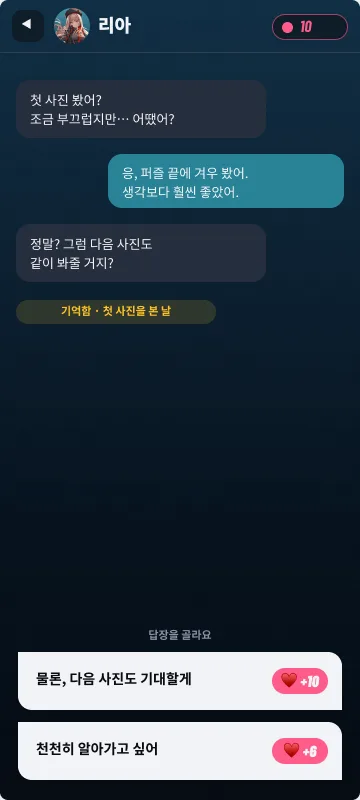
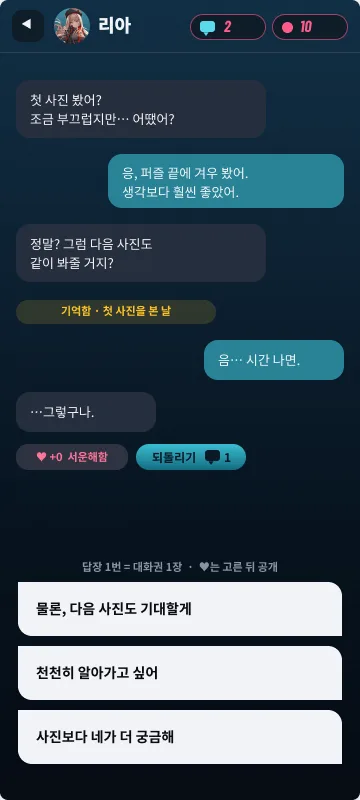
Proposal: affinity gate, answer tickets, ending tier gacha (R/SR/UR)
Claude-Session: https://claude.ai/code/session_01QC4LnGUoEV4hPAaGSGh6GF

diff --git a/territory-romance-f2p-proposal.html b/territory-romance-f2p-proposal.html
@@ -44,32 +44,92 @@ section{margin:72px 0}
 .scope div{background:var(--card);border:1px solid var(--line);border-radius:14px;padding:18px}
 .scope b{display:block;font-size:18px;margin-bottom:4px}
 .scope span{color:var(--muted);font-size:14px}
+.duo{display:grid;grid-template-columns:auto 1fr;gap:28px;align-items:center}
+.duo .pair{display:flex;gap:14px}
+.duo .pair figure{margin:0;width:200px}
+.duo .pair img{width:100%;display:block;border-radius:16px;border:3px solid #1c2e42}
+.pts{list-style:none;margin:0;padding:0;display:grid;gap:10px}
+.pts li{background:var(--card);border:1px solid var(--line);border-radius:12px;padding:12px 14px;font-size:15px}
+.pts li b{color:var(--yellow)}
+.holo{position:relative;border-radius:16px;overflow:hidden}
+.holo::after{content:"";position:absolute;inset:0;background:linear-gradient(115deg,transparent 30%,#ff5c9a55 40%,#ffe06655 47%,#5cf2c955 54%,#5cc8ff55 61%,transparent 70%);background-size:250% 250%;mix-blend-mode:color-dodge;animation:foil 3.2s ease-in-out infinite alternate;pointer-events:none}
+@keyframes foil{from{background-position:100% 100%}to{background-position:0 0}}
+@media (prefers-reduced-motion:reduce){.holo::after{animation:none}}
+.tiers{display:grid;grid-template-columns:repeat(3,1fr);gap:10px;margin-top:4px}
+.tier{border-radius:12px;padding:12px;text-align:center;background:var(--card);border:1px solid var(--line)}
+.tier b{display:block;font:italic 900 26px/1 "Barlow Condensed",ui-sans-serif,sans-serif}
+.tier span{font-size:12px;color:var(--muted)}
+.tier.ur{background:linear-gradient(115deg,#ff5c9a,#ffd84d,#5cf2c9,#5cc8ff,#b27aff);border:0;color:#1a0f2e}
+.tier.ur span{color:#1a0f2e;font-weight:700}
+.money{grid-template-columns:1fr 1fr}
 footer{border-top:1px solid var(--line);padding-top:18px;color:var(--muted);font-size:13px}
-@media(max-width:860px){.hero{grid-template-columns:1fr}.nums{grid-template-columns:repeat(2,1fr)}.money,.scope{grid-template-columns:1fr}.grid3{grid-template-columns:repeat(3,minmax(0,1fr));gap:10px}}
-@media(max-width:520px){.shot{flex-basis:160px}.grid3{grid-template-columns:1fr 1fr}.mcard img{width:90px}}
+@media(max-width:860px){.duo{grid-template-columns:1fr}.hero{grid-template-columns:1fr}.nums{grid-template-columns:repeat(2,1fr)}.money,.scope{grid-template-columns:1fr}.grid3{grid-template-columns:repeat(3,minmax(0,1fr));gap:10px}}
+@media(max-width:520px){.duo .pair figure{width:48%}.shot{flex-basis:160px}.grid3{grid-template-columns:1fr 1fr}.mcard img{width:90px}}
 </style></head><body><div class="wrap">
 
 <header class="hero">
  <div>
   <div class="kicker">DLsite にじGAME · FANZA · F2P + IAP</div>
   <h1>사진을 여는<br>땅따먹기</h1>
-  <p class="lead">땅을 먹으면 <b>사진</b>이 열리고,<br>사진이 열리면 <b>그녀와 대화</b>가 열린다.</p>
-  <div class="chips"><span>영역 점령 퍼즐</span><span>AI 대화 · 친밀도</span><span>캐릭터당 앨범 5장</span></div>
+  <p class="lead">땅을 먹으면 <b>사진</b>이 열리고,<br>마음을 얻어야 <b>다음 사진</b>이 열린다.<br>마지막은 <b>엔딩 뽑기</b>.</p>
+  <div class="chips"><span>영역 점령 퍼즐</span><span>AI 대화 · 친밀도</span><span>캐릭터당 앨범 5장</span><span>엔딩 등급 뽑기</span></div>
  </div>
  <div class="hero-shots"><img src="japan-project/proposal-screens/01-lobby.webp" alt="로비"><img src="japan-project/proposal-screens/02-puzzle.webp" alt="땅따먹기 퍼즐"><img src="japan-project/proposal-screens/04-clear.webp" alt="사진 획득"></div>
 </header>
 
 <section id="flow">
  <h2>한 판의 흐름</h2>
- <p class="sub">고르고 → 열고 → 대화하고 → 엔딩. 옆으로 넘겨 보세요.</p>
+ <p class="sub">고르고 → 열고 → 마음 얻고 → 엔딩 뽑기. 옆으로 넘겨 보세요.</p>
  <div class="rail">
   <figure class="shot"><img src="japan-project/proposal-screens/01-lobby.webp" alt="" loading="lazy"><figcaption><b><i>01</i>로비</b><span>첫 캐릭터는 무료. GO!</span></figcaption></figure>
   <figure class="shot"><img src="japan-project/proposal-screens/02-puzzle.webp" alt="" loading="lazy"><figcaption><b><i>02</i>땅따먹기</b><span>80% 열면 사진 1장</span></figcaption></figure>
   <figure class="shot"><img src="japan-project/proposal-screens/03-timeup.webp" alt="" loading="lazy"><figcaption><b><i>03</i>시간 초과</b><span>"8%만 더" — 여기서 결제</span></figcaption></figure>
   <figure class="shot"><img src="japan-project/proposal-screens/04-clear.webp" alt="" loading="lazy"><figcaption><b><i>04</i>사진 획득</b><span>앨범 1/5 · 대화 열림</span></figcaption></figure>
-  <figure class="shot"><img src="japan-project/proposal-screens/05-talk.webp" alt="" loading="lazy"><figcaption><b><i>05</i>대화</b><span>고르면 친밀도 +6~10</span></figcaption></figure>
-  <figure class="shot"><img src="japan-project/proposal-screens/06-bond.webp" alt="" loading="lazy"><figcaption><b><i>06</i>관계</b><span>사진 4장 + ♥100 = 엔딩</span></figcaption></figure>
-  <figure class="shot"><img src="japan-project/proposal-screens/07-ending.webp" alt="" loading="lazy"><figcaption><b><i>07</i>엔딩</b><span>앨범 5/5 · 다음 캐릭터</span></figcaption></figure>
+  <figure class="shot"><img src="japan-project/proposal-screens/05-talk.webp" alt="" loading="lazy"><figcaption><b><i>05</i>대화</b><span>답장마다 대화권 1장</span></figcaption></figure>
+  <figure class="shot"><img src="japan-project/proposal-screens/06-bond.webp" alt="" loading="lazy"><figcaption><b><i>06</i>관계</b><span>♥ 모자라면 다음 사진 잠김</span></figcaption></figure>
+  <figure class="shot"><img src="japan-project/proposal-screens/07-ending.webp" alt="" loading="lazy"><figcaption><b><i>07</i>엔딩 뽑기</b><span>첫 1회 무료 · 최고 UR</span></figcaption></figure>
+  <figure class="shot"><div class="holo"><img src="japan-project/proposal-screens/08-result.webp" alt="" loading="lazy" style="border-radius:16px"></div><figcaption><b><i>08</i>결과</b><span>UR = 홀로 + 움직임</span></figcaption></figure>
+ </div>
+</section>
+
+<section id="bond">
+ <h2>마음을 못 얻으면, 다음 사진도 없다</h2>
+ <p class="sub">사진 퍼즐 입장권 = 친밀도. 말실수는 대화권으로 되돌린다.</p>
+ <div class="duo">
+  <div class="pair">
+   <figure><img src="japan-project/proposal-screens/05-talk.webp" alt="대화" loading="lazy"></figure>
+   <figure><img src="japan-project/proposal-screens/06-bond.webp" alt="관계" loading="lazy"></figure>
+  </div>
+  <ul class="pts">
+   <li>답장 1번 = <b>대화권 1장</b> · 하루 무료 5장</li>
+   <li>♥는 <b>고른 뒤 공개</b> — 좋음 +4 · 보통 +2 · 나쁨 0</li>
+   <li>사진 2 <b>♥15</b> · 사진 3 <b>♥45</b> · 사진 4 <b>♥70</b> · 엔딩 <b>♥100</b></li>
+   <li>♥ 2 모자랄 때 → 자정까지 기다리거나 <b>대화권 5장 ◇100</b></li>
+  </ul>
+ </div>
+</section>
+
+<section id="ending">
+ <h2>엔딩은 뽑는다</h2>
+ <p class="sub">첫 판은 공짜. 더 높은 등급이 보이니까 한 번 더.</p>
+ <div class="duo">
+  <div class="pair">
+   <figure><img src="japan-project/proposal-screens/07-ending.webp" alt="엔딩 뽑기" loading="lazy"></figure>
+   <figure class="holo"><img src="japan-project/proposal-screens/08-result.webp" alt="UR 결과" loading="lazy" style="border-radius:16px"></figure>
+  </div>
+  <div>
+   <div class="tiers">
+    <div class="tier"><b>R</b><span>70% · 기본 일러</span></div>
+    <div class="tier" style="border-color:#5cc8ff"><b style="color:#5cc8ff">SR</b><span>25% · 수위↑ · 홀로 테두리</span></div>
+    <div class="tier ur"><b>UR</b><span>5% · 최고 수위 · 전면 홀로 · 움직임</span></div>
+   </div>
+   <ul class="pts" style="margin-top:12px">
+    <li>뽑기 화면에 <b>“최고 UR까지”</b> 뱃지 + 확률 한 줄 상시 노출</li>
+    <li>2회째부터 <b>◇300</b> · <b>20회째 UR 확정</b></li>
+    <li>어떤 등급이든 첫 1장으로 앨범 5/5 — 무과금도 엔딩 본다</li>
+    <li>중복 등급 → 대화권 3장 · 등급 모으기 보상 없음</li>
+   </ul>
+  </div>
  </div>
 </section>
 
@@ -85,35 +145,37 @@ footer{border-top:1px solid var(--line);padding-top:18px;color:var(--muted);font
 
 <section id="volume">
  <h2>숫자로 보면</h2>
- <p class="sub">출시 기준. 무과금으로도 전부 도달 가능.</p>
+ <p class="sub">출시 기준. 무과금으로도 기본 엔딩까지 도달.</p>
  <div class="nums">
   <div class="num"><b>12명</b><span>출시 캐릭터 · 월 +2</span></div>
   <div class="num"><b>5장</b><span>캐릭터당 앨범 (사진 4 + 엔딩)</span></div>
-  <div class="num"><b>10판</b><span>캐릭터당 스테이지</span></div>
-  <div class="num"><b>8회</b><span>캐릭터당 스토리 대화</span></div>
+  <div class="num"><b>3등급</b><span>엔딩 R · SR · UR</span></div>
+  <div class="num"><b>5장/일</b><span>무료 대화권</span></div>
   <div class="num"><b>~8일</b><span>무과금 1명 완결</span></div>
  </div>
 </section>
 
 <section id="money">
- <h2>돈 버는 곳은 딱 두 군데</h2>
- <p class="sub">기다리기 싫을 때, 거의 다 열었을 때.</p>
+ <h2>돈 버는 곳은 네 군데</h2>
+ <p class="sub">기다리기 싫을 때, 거의 다 열었을 때, 말실수했을 때, 더 높은 엔딩이 보일 때.</p>
  <div class="money">
   <div class="mcard"><img src="japan-project/proposal-screens/l2-locked.webp" alt="" loading="lazy"><div><h3>캐릭터 바로 열기</h3><div class="price">◇ 1,000</div><p>접근만 앞당긴다. 사진·친밀도는 0부터.</p></div></div>
   <div class="mcard"><img src="japan-project/proposal-screens/03-timeup.webp" alt="" loading="lazy"><div><h3>이어하기 · 부스터</h3><div class="price">◇ 100~150</div><p>사진 직전 실패에서 +30초. 스타터 팩 ¥980.</p></div></div>
+  <div class="mcard"><img src="japan-project/proposal-screens/06-bond.webp" alt="" loading="lazy"><div><h3>대화권</h3><div class="price">5장 ◇ 100</div><p>♥가 모자랄 때, 나쁜 답을 되돌릴 때.</p></div></div>
+  <div class="mcard"><img src="japan-project/proposal-screens/07-ending.webp" alt="" loading="lazy"><div><h3>엔딩 다시 뽑기</h3><div class="price">◇ 300</div><p>R 70 · SR 25 · UR 5%. 20회째 UR 확정.</p></div></div>
  </div>
- <div class="rule">사진 · 엔딩 · 친밀도는 팔지 않는다.</div>
+ <div class="rule">사진 · 친밀도는 팔지 않는다. 기본 엔딩은 무료 1회로 보장한다.</div>
 </section>
 
 <section id="scope">
  <h2>먼저 만들 것</h2>
  <p class="sub">한 명을 끝까지 — 그걸로 재미를 확인한다.</p>
  <div class="scope">
-  <div><b>캐릭터 1명 완성</b><span>스탠딩 + 사진 4 + 엔딩 1</span></div>
+  <div><b>캐릭터 1명 완성</b><span>스탠딩 + 사진 4 + 엔딩 R/SR/UR</span></div>
   <div><b>퍼즐 10판</b><span>방해물 1종 · 부스터 2종</span></div>
-  <div><b>AI 대화 8회</b><span>기억 1개가 다음 대화로 이어짐</span></div>
+  <div><b>대화 8회 + 엔딩 뽑기</b><span>선택지 3개 · 되돌리기 · UR 홀로 카드 1장</span></div>
  </div>
 </section>
 
-<footer>전체 화면 · 스펙 주석은 <a href="https://www.figma.com/design/yqd3KRXA28gaCRWylWto5Z/notepad?node-id=180-2">Figma 보드</a>에서. · 검토 보류: 추가 대화 이용권(병목=대화 하루 1회) · 가격은 추정치, 플랫폼 확정 후 재산정 · 캐릭터 이미지는 내부 목업용 레퍼런스</footer>
+<footer>전체 화면 · 스펙 주석은 <a href="https://www.figma.com/design/yqd3KRXA28gaCRWylWto5Z/notepad?node-id=180-2">Figma 보드</a>에서. · 검토 필요: 확률 표시 · 천장 · 컴프가챠 여부 법무 확인 (景品表示法 · 플랫폼 규약) · 가격은 추정치, 플랫폼 확정 후 재산정 · 캐릭터 이미지는 내부 목업용 레퍼런스</footer>
 </div></body></html>
